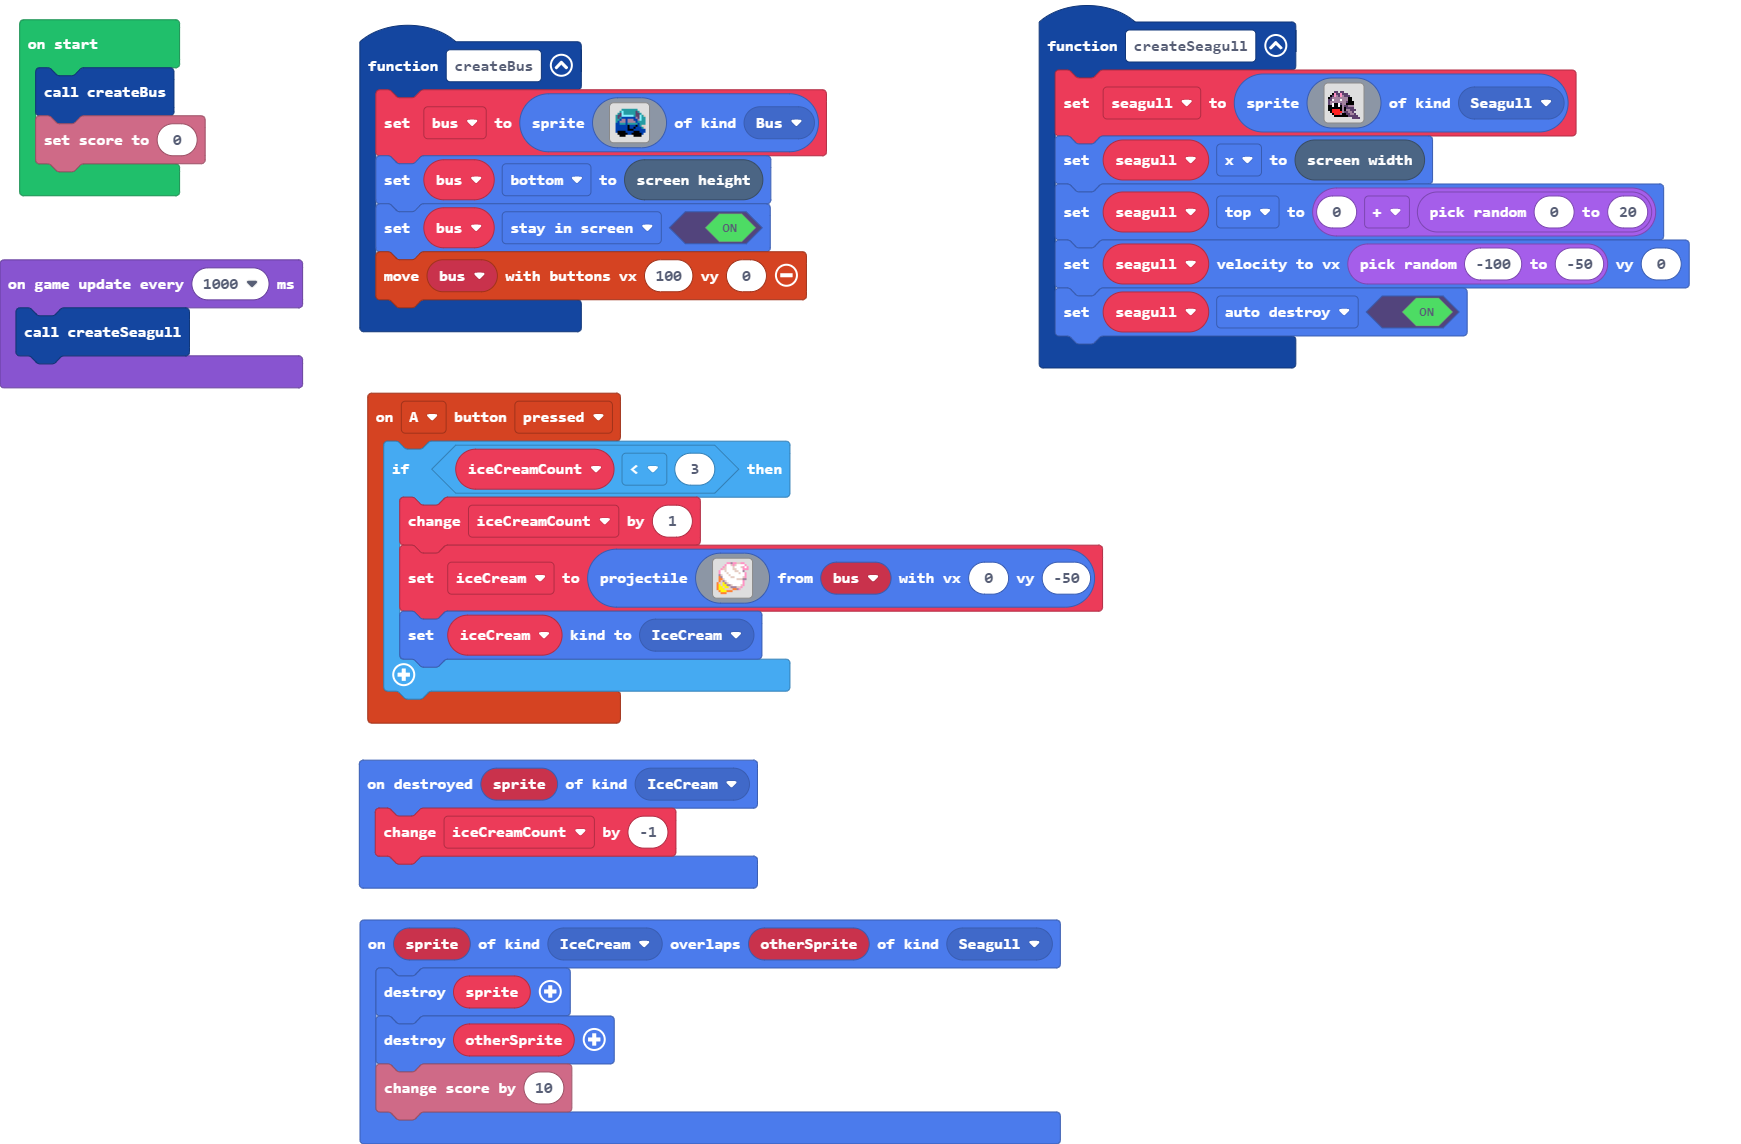
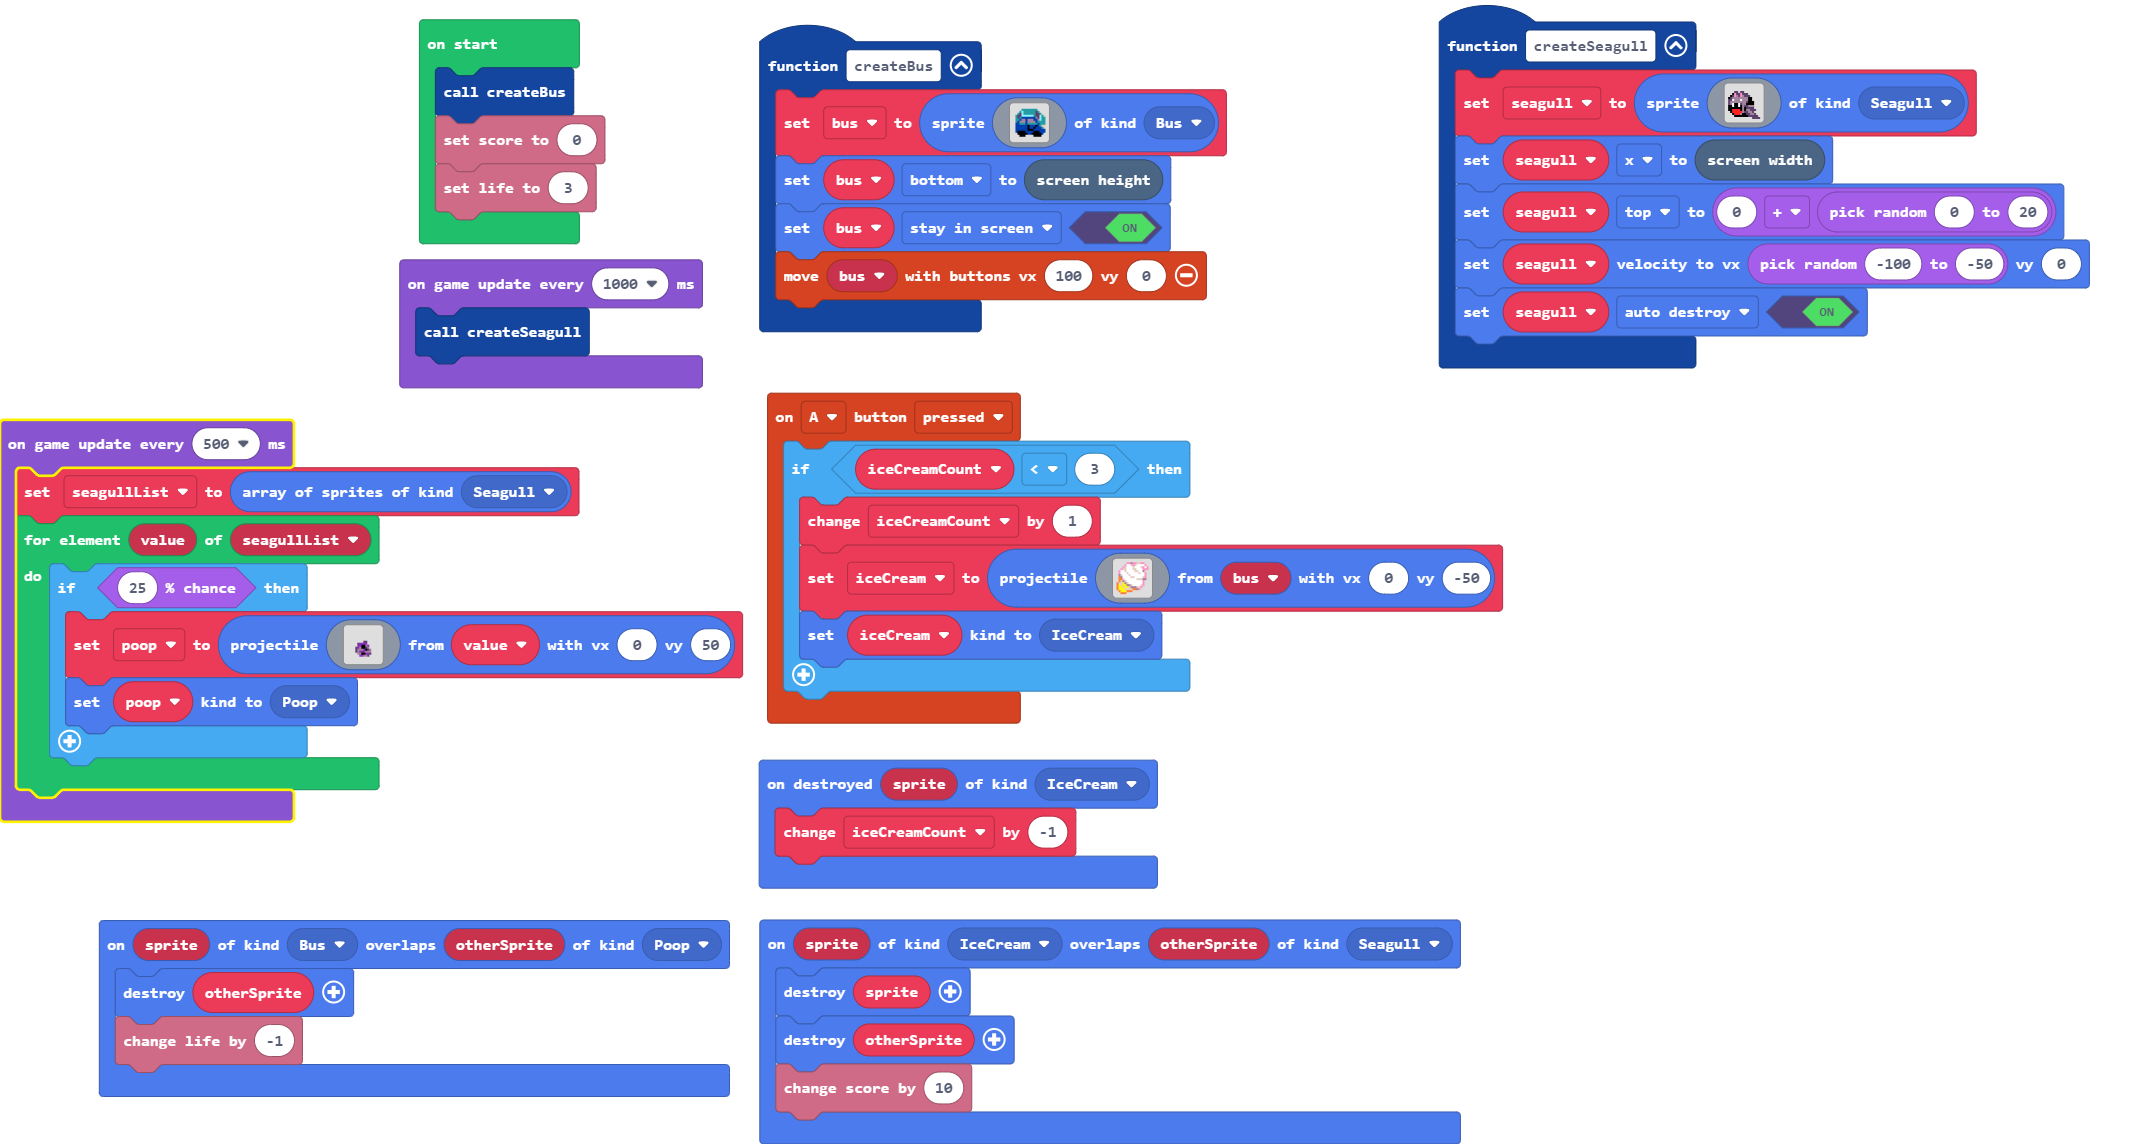
Add poop and lives.

diff --git a/main.ts b/main.ts
@@ -2,6 +2,7 @@ namespace SpriteKind {
     export const IceCream = SpriteKind.create()
     export const Bus = SpriteKind.create()
     export const Seagull = SpriteKind.create()
+    export const Poop = SpriteKind.create()
 }
 sprites.onOverlap(SpriteKind.IceCream, SpriteKind.Seagull, function (sprite, otherSprite) {
     sprite.destroy()
@@ -82,12 +83,45 @@ function createBus () {
     bus.setFlag(SpriteFlag.StayInScreen, true)
     controller.moveSprite(bus, 100, 0)
 }
+sprites.onOverlap(SpriteKind.Bus, SpriteKind.Poop, function (sprite, otherSprite) {
+    otherSprite.destroy()
+    info.changeLifeBy(-1)
+})
+let poop: Sprite = null
+let seagullList: Sprite[] = []
 let bus: Sprite = null
 let iceCream: Sprite = null
 let seagull: Sprite = null
 let iceCreamCount = 0
 createBus()
 info.setScore(0)
+info.setLife(3)
 game.onUpdateInterval(1000, function () {
     createSeagull()
+})
+game.onUpdateInterval(500, function () {
+    seagullList = sprites.allOfKind(SpriteKind.Seagull)
+    for (let value of seagullList) {
+        if (Math.percentChance(25)) {
+            poop = sprites.createProjectileFromSprite(img`
+                . . . . . . . . . . . . . . . . 
+                . . . . . . . . . . . . . . . . 
+                . . . . . . . . . . . . . . . . 
+                . . . . . . . . . . . . . . . . 
+                . . . . . . . . . . . . . . . . 
+                . . . . . . . . . . . . . . . . 
+                . . . . . . . . c c . . . . . . 
+                . . . . . c a a a a . . . . . . 
+                . . . . . a a f f b a . . . . . 
+                . . . . c a b f f c b . . . . . 
+                . . . . c b b b a f c b . . . . 
+                . . . . c b a c a b b b . . . . 
+                . . . . . b b f f a a c . . . . 
+                . . . . . . a a b b c . . . . . 
+                . . . . . . . . . . . . . . . . 
+                . . . . . . . . . . . . . . . . 
+                `, value, 0, 50)
+            poop.setKind(SpriteKind.Poop)
+        }
+    }
 })
